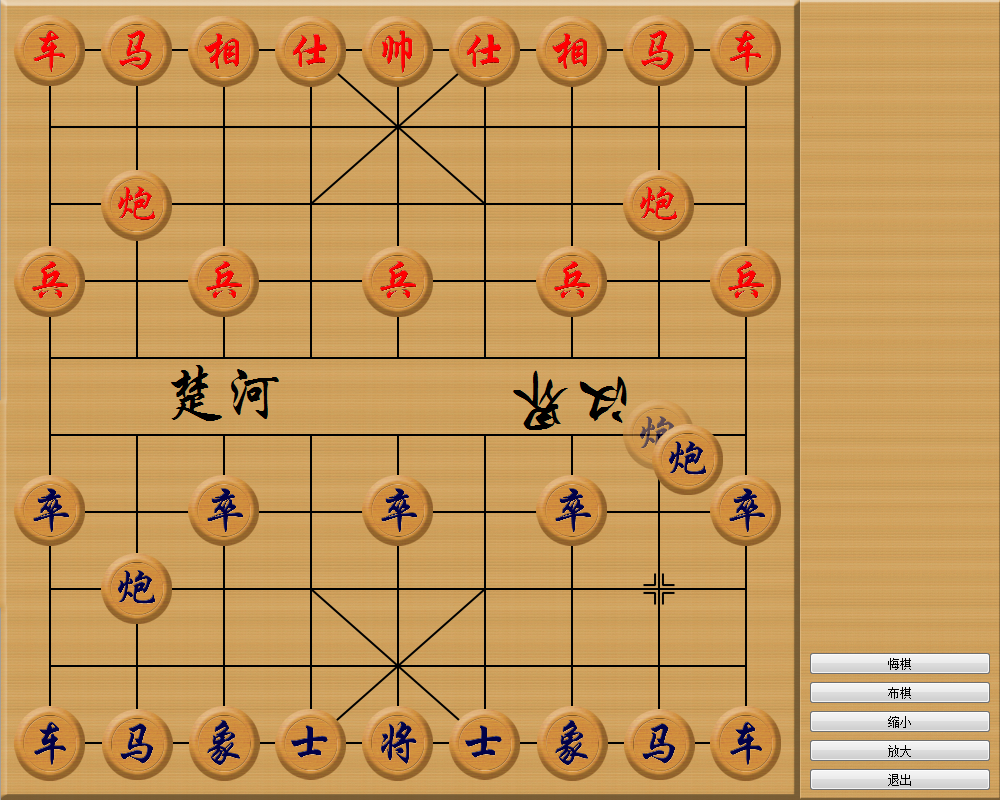
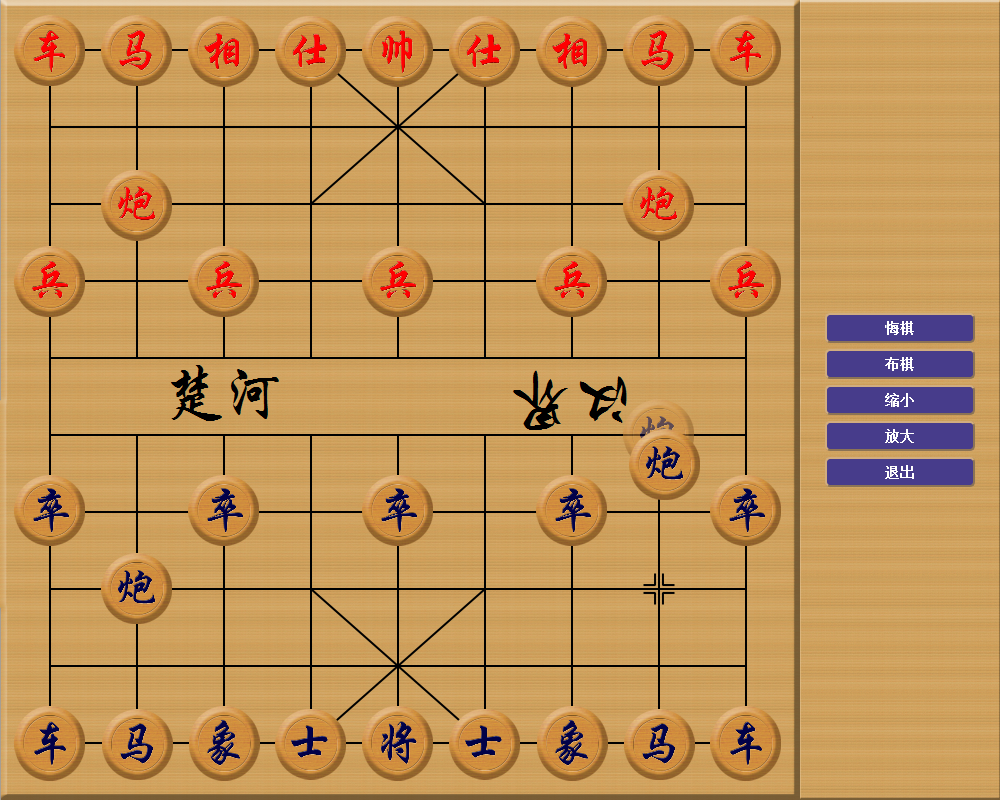
增加程序描述信息！

Changed region(s): [[0.806, 0.375, 0.992, 0.625], [0.806, 0.8125, 0.992, 1.0], [0.62, 0.5312, 0.744, 0.625]]

diff --git a/xybattleinfowidget.cpp b/xybattleinfowidget.cpp
@@ -9,24 +9,50 @@
 XYBattleInfoWidget::XYBattleInfoWidget(QWidget *parent)
     : QWidget(parent)
 {
+    QString qss0="QPushButton {\
+                    background-color: #473C8B;\
+                    border-style: outset;\
+                    border-width: 2px;\
+                    border-radius: 5px;\
+                    border-color: #8B7355;\
+                    font: bold 14px;\
+                    min-width:2em;\
+                    color:white;\
+                    font-family:华文新魏;\
+                    padding: 5px;\
+                }\
+                QPushButton:pressed {\
+                    background-color: #1E90FF;\
+                    border-style: inset;\
+                }";
+    this->setStyleSheet(qss0);
+
     QVBoxLayout *layout = new QVBoxLayout(this);
-    layout->addStretch(1);
+
     QPushButton *closeBtn = new QPushButton(QString::fromStdWString(L"退出"));
+    closeBtn->setFixedSize(150, 30);
     connect(closeBtn, SIGNAL(clicked()), this, SLOT(exit()));
     QPushButton *ZoomInBtn = new QPushButton(QString::fromStdWString(L"放大"));
+    ZoomInBtn->setFixedSize(150, 30);
     connect(ZoomInBtn, SIGNAL(clicked()), this, SLOT(zoomIn()));
     QPushButton *ZoomOutBtn = new QPushButton(QString::fromStdWString(L"缩小"));
+    ZoomOutBtn->setFixedSize(150, 30);
     connect(ZoomOutBtn, SIGNAL(clicked()), this, SLOT(zoomOut()));
     QPushButton *layoutBtn = new QPushButton(QString::fromStdWString(L"布棋"));
+    layoutBtn->setFixedSize(150, 30);
     connect(layoutBtn, SIGNAL(clicked()), this, SLOT(layoutQizi()));
     QPushButton *revokedBtn = new QPushButton(QString::fromStdWString(L"悔棋"));
+    revokedBtn->setFixedSize(150, 30);
     connect(revokedBtn, SIGNAL(clicked()), this, SLOT(revoked()));
 
+    layout->addStretch();
+    layout->setContentsMargins(25, 0, 0, 0);
     layout->addWidget(revokedBtn);
     layout->addWidget(layoutBtn);
     layout->addWidget(ZoomOutBtn);
     layout->addWidget(ZoomInBtn);
     layout->addWidget(closeBtn);
+    layout->addStretch();
 
     qipanPixmap.load(":/xiangqi/qipan.png");
 }

diff --git a/main.cpp b/main.cpp
@@ -1,4 +1,4 @@
-#include "mainwindow.h"
+#include "mainwindow.h"
 #include <QApplication>
 
 int main(int argc, char *argv[])
